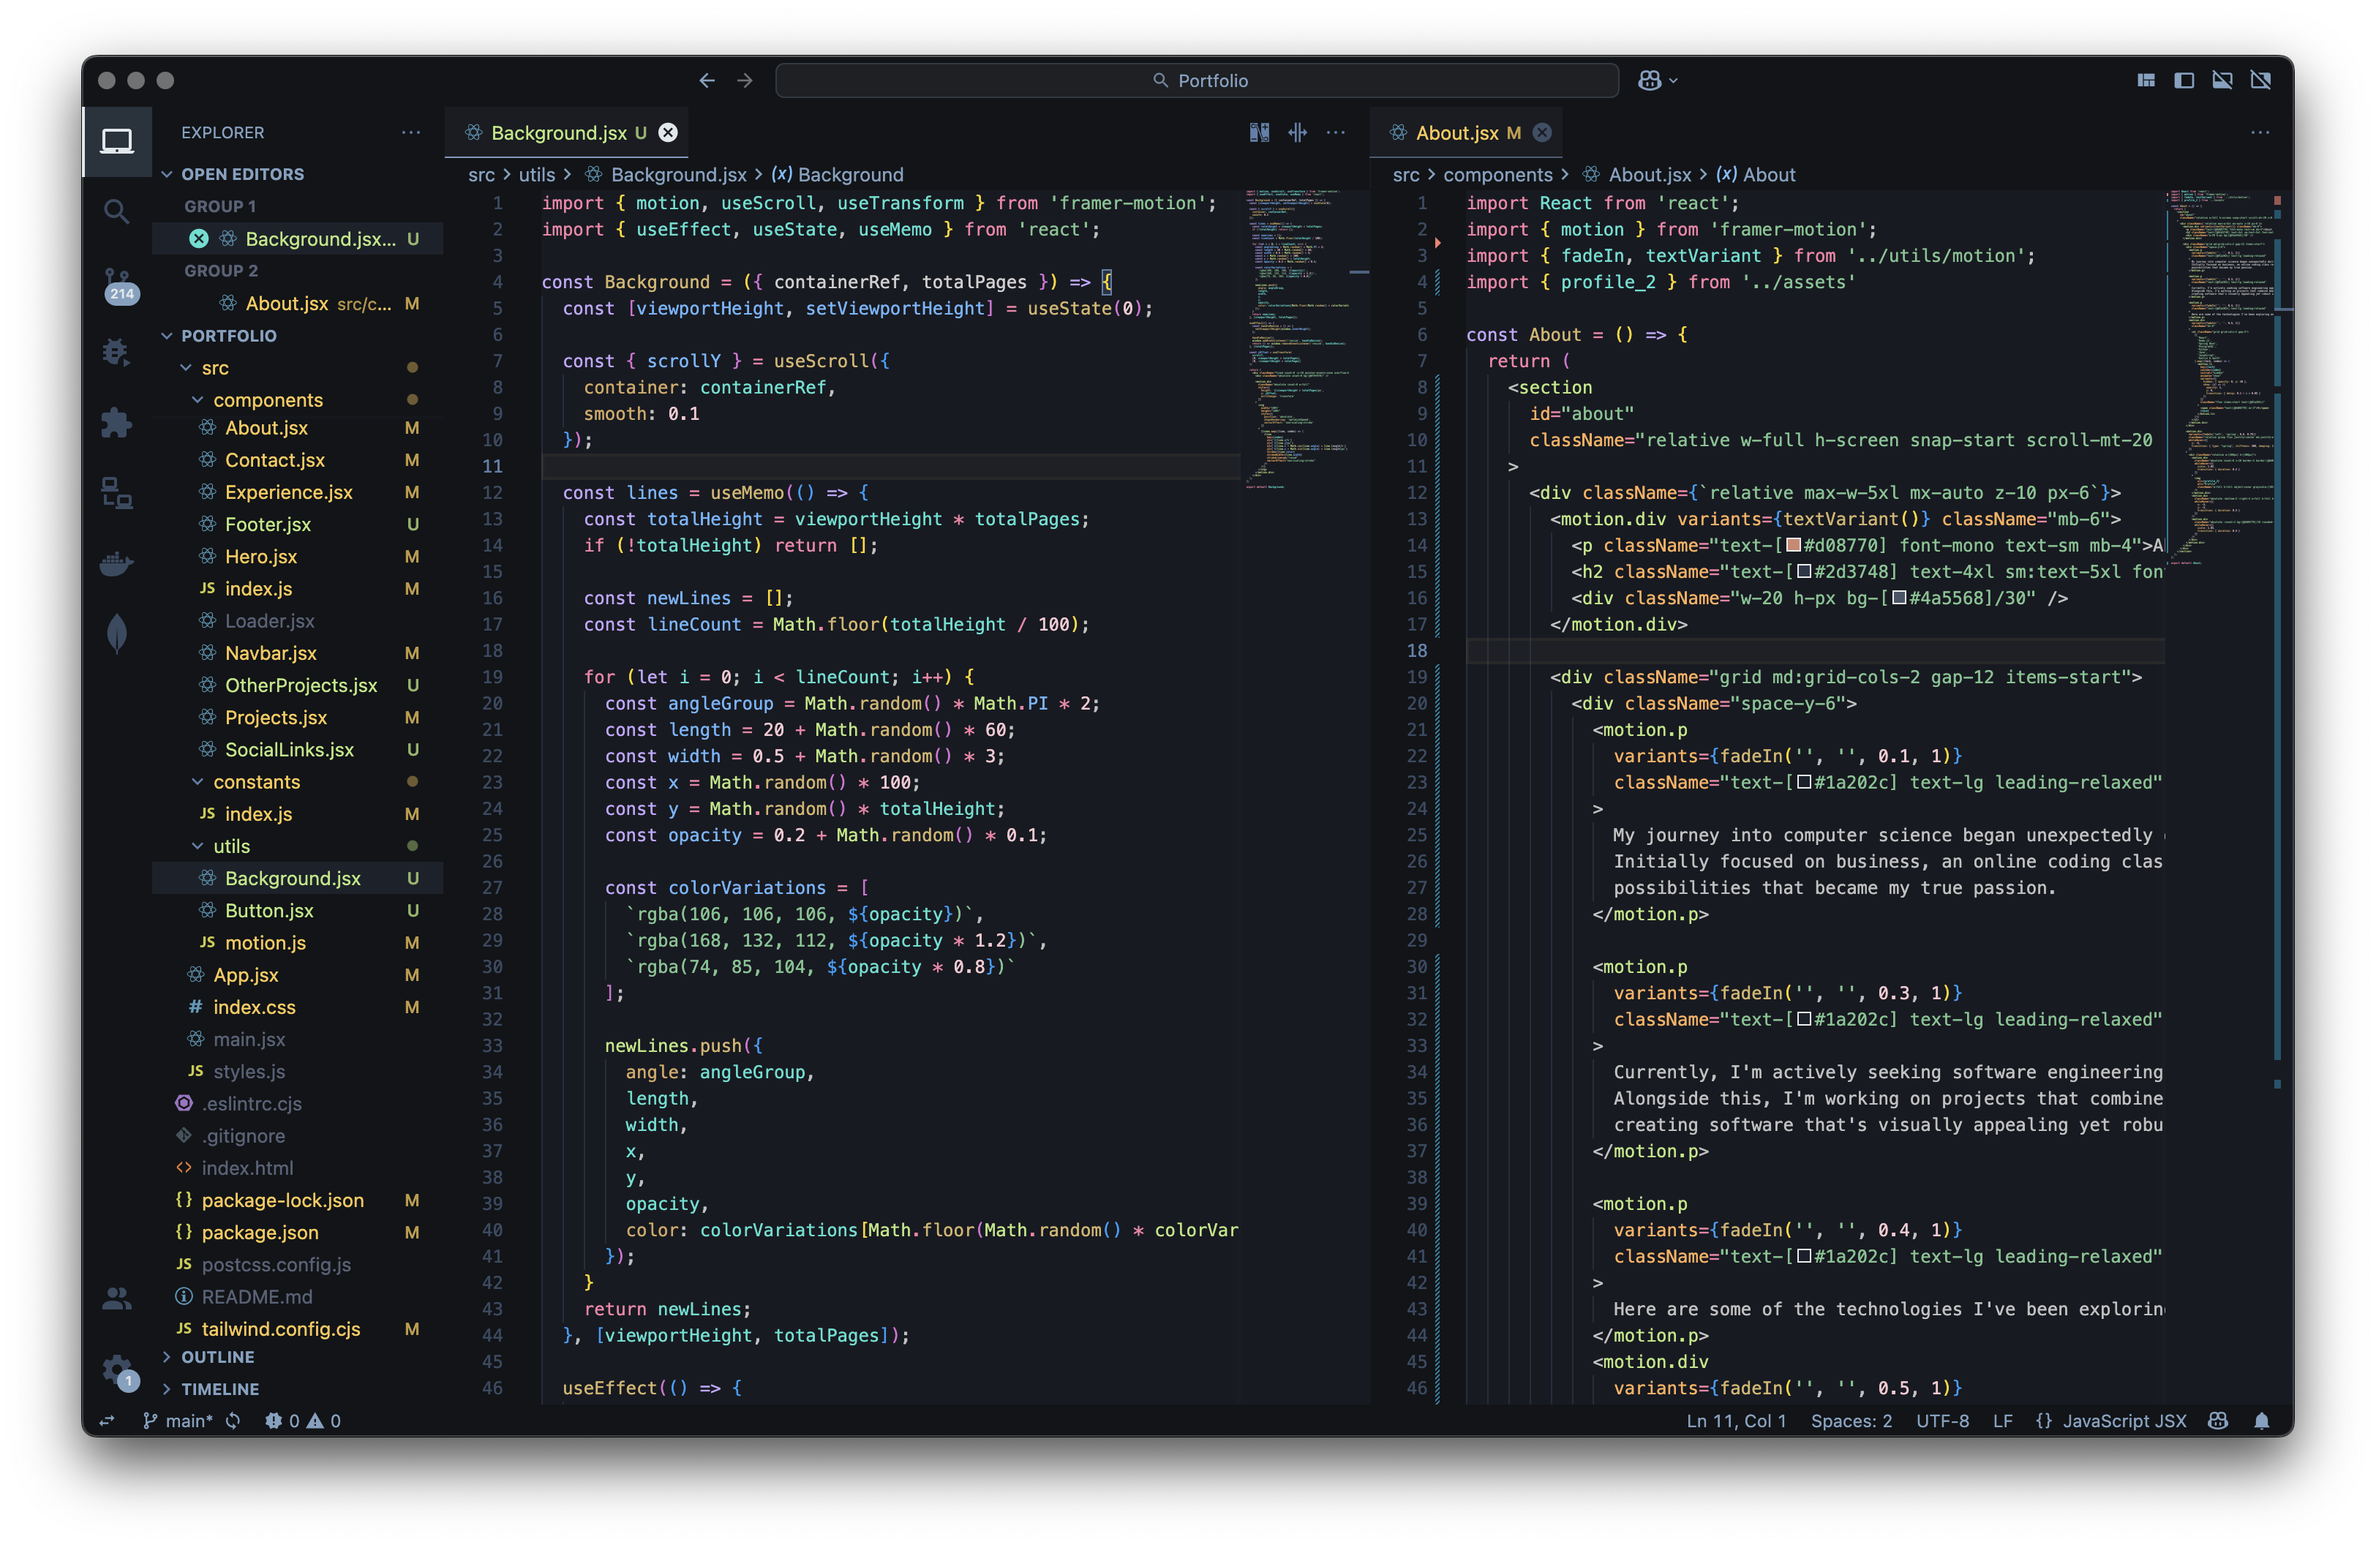
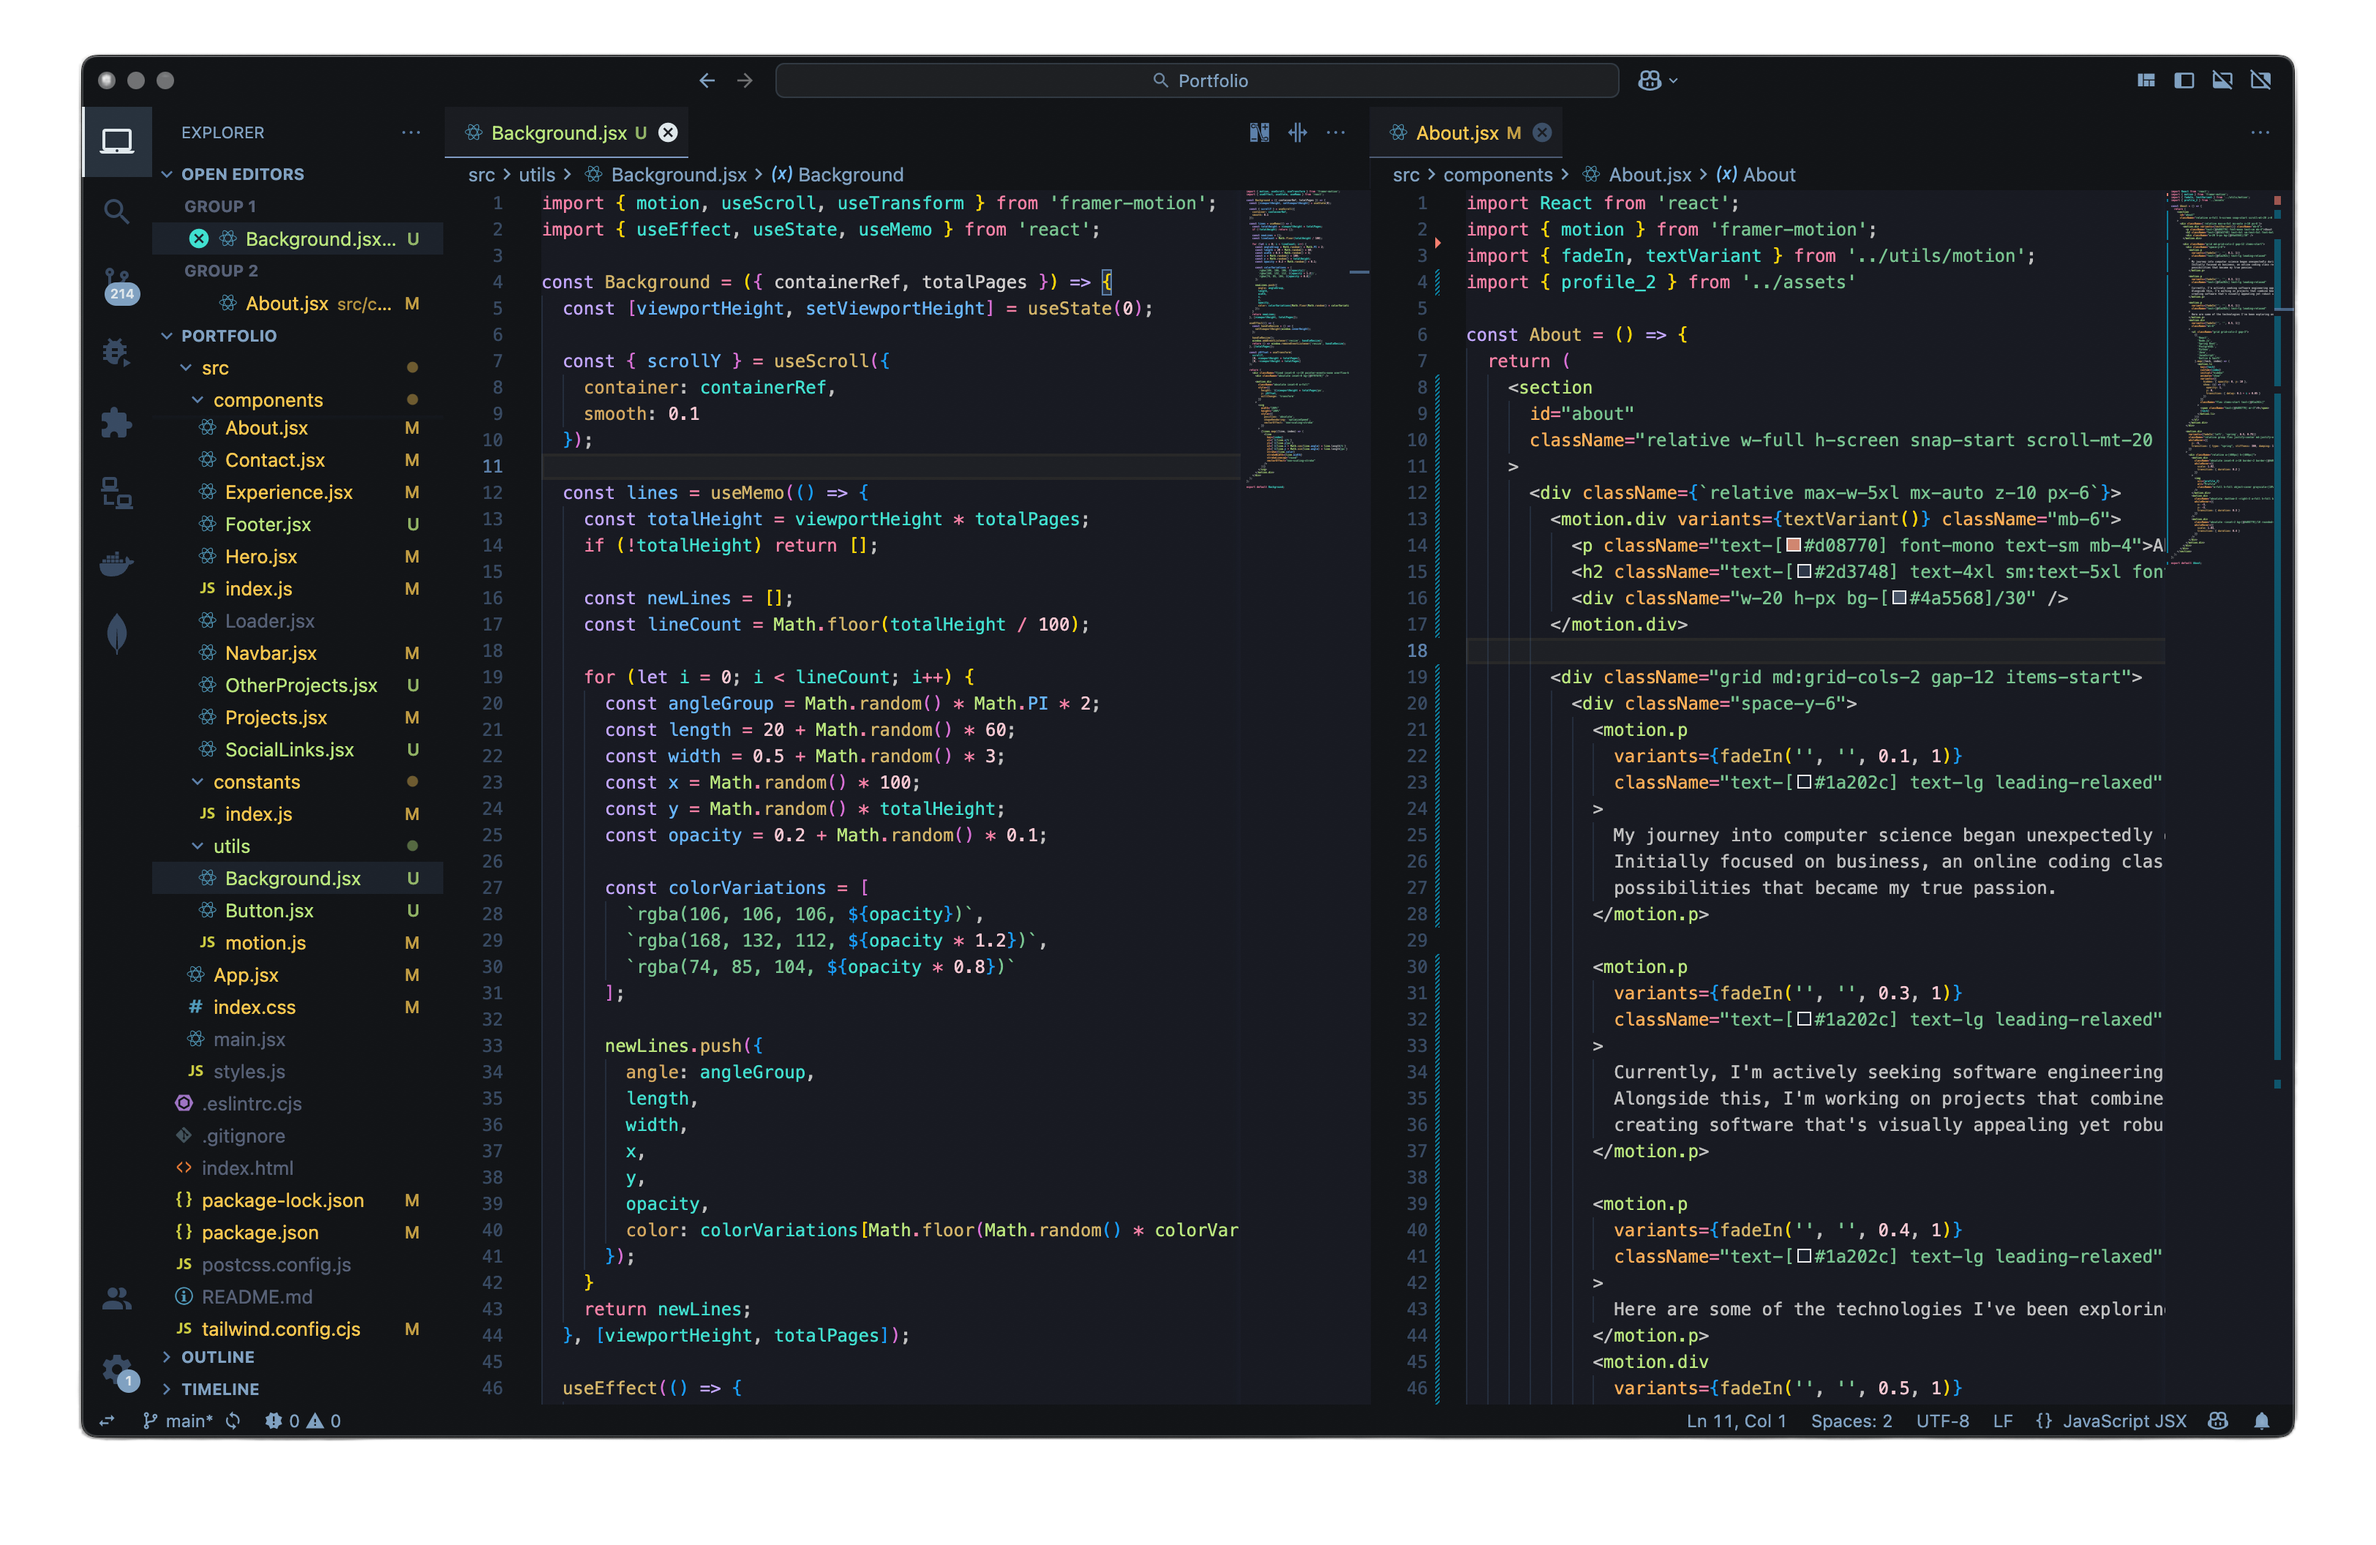
added vercel analytics and edited background test

diff --git a/src/utils/Background.jsx b/src/utils/Background.jsx
@@ -1,58 +1,65 @@
 import { motion, useScroll, useTransform } from 'framer-motion';
-import { useEffect, useRef } from 'react';
+import { useRef, useState, useEffect } from 'react';
 
 const Background = ({ containerRef, totalPages }) => {
-  const lines = useRef(null);
+  const [lines, setLines] = useState([]);
   const viewportHeight = useRef(0);
-  const initialized = useRef(false);
+  const totalHeight = useRef(0);
+  const linesContainerRef = useRef(null);
 
-  const { scrollY } = useScroll({
-    container: containerRef,
-    smooth: 0.1
-  });
+  useEffect(() => {
+    if (typeof window !== 'undefined') {
+      viewportHeight.current = window.innerHeight;
+      totalHeight.current = viewportHeight.current * totalPages;
+      generateLines();
+    }
 
-  if (!initialized.current) {
-    viewportHeight.current = typeof window !== 'undefined' ? window.innerHeight : 0;
-    const totalHeight = viewportHeight.current * totalPages;
-    const lineCount = Math.floor(totalHeight / 100);
+    const handleResize = () => {
+      viewportHeight.current = window.innerHeight;
+      totalHeight.current = viewportHeight.current * totalPages;
+      generateLines();
+    };
+
+    window.addEventListener('resize', handleResize);
+    return () => window.removeEventListener('resize', handleResize);
+  }, [totalPages]);
+
+  const generateLines = () => {
+    const newLines = [];
+    const lineCount = Math.floor(totalHeight.current / 50);
     
-    lines.current = Array.from({ length: lineCount }).map((_, i) => {
+    for (let i = 0; i < lineCount; i++) {
       const angle = Math.random() * Math.PI * 2;
-      const length = 20 + Math.random() * 60;
-      const width = 0.5 + Math.random() * 3;
+      const length = 30 + Math.random() * 70;
+      const width = 0.5 + Math.random() * 2;
       const x = Math.random() * 100;
-      const y = Math.random() * totalHeight;
-      const opacity = 0.2 + Math.random() * 0.1;
+      const y = Math.random() * totalHeight.current;
+      const opacity = 0.1 + Math.random() * 0.2;
 
-      return {
+      newLines.push({
         angle,
         length,
         width,
         x,
         y,
         color: `rgba(106, 106, 106, ${opacity})`,
-        id: `line-${i}-${performance.now()}`
-      };
-    });
-
-    initialized.current = true;
-  }
-
-  useEffect(() => {
-    const handleResize = () => {
-      viewportHeight.current = window.innerHeight;
-    };
-
-    if (typeof window !== 'undefined') {
-      window.addEventListener('resize', handleResize);
-      return () => window.removeEventListener('resize', handleResize);
+        id: `line-${i}-${Math.random().toString(36).substr(2, 9)}`
+      });
     }
-  }, []);
+    
+    setLines(newLines);
+  };
+
+  const { scrollY } = useScroll({
+    container: containerRef,
+    smooth: 0.1
+  });
+
 
   const yOffset = useTransform(
     scrollY,
-    [0, viewportHeight.current * totalPages],
-    [0, -viewportHeight.current * totalPages]
+    [0, totalHeight.current],
+    [0, -totalHeight.current * 0.5]
   );
 
   return (
@@ -60,9 +67,10 @@ const Background = ({ containerRef, totalPages }) => {
       <div className="absolute inset-0 bg-[#f9f6f0]" />
       
       <motion.div 
+        ref={linesContainerRef}
         className="absolute inset-0 w-full"
         style={{
-          height: `${viewportHeight.current * totalPages}px`,
+          height: `${totalHeight.current}px`,
           y: yOffset,
           willChange: 'transform'
         }}
@@ -77,7 +85,7 @@ const Background = ({ containerRef, totalPages }) => {
             vectorEffect: 'non-scaling-stroke'
           }}
         >
-          {lines.current?.map((line) => (
+          {lines.map((line) => (
             <line
               key={line.id}
               x1={`${line.x}%`}
